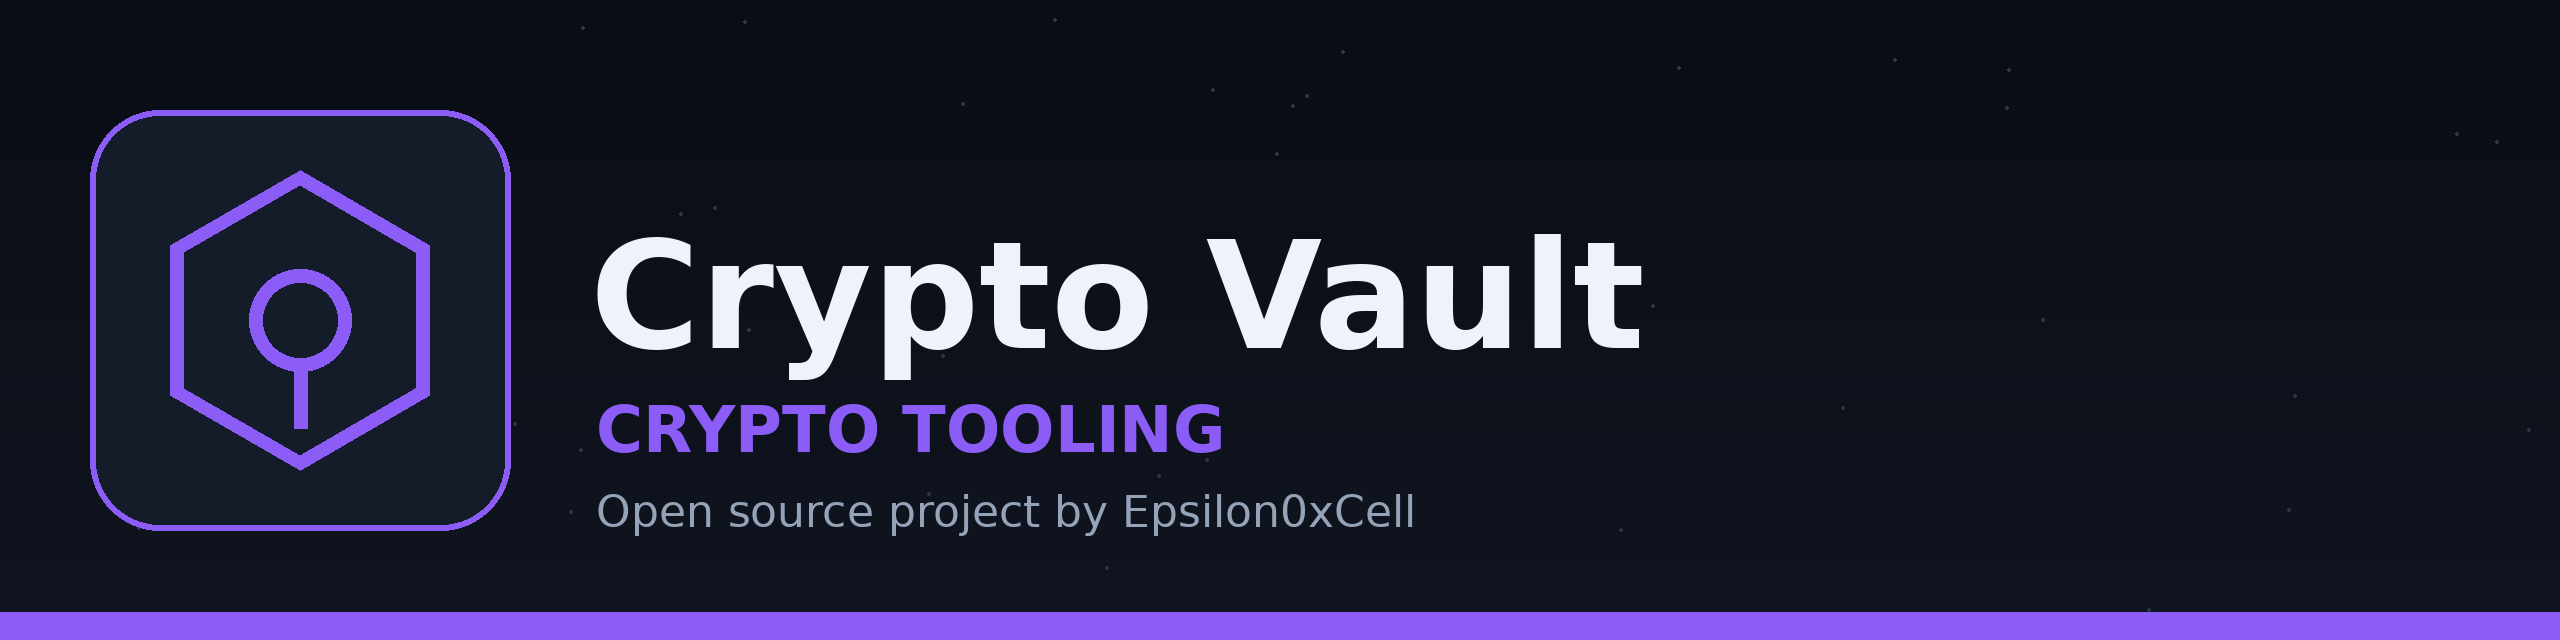
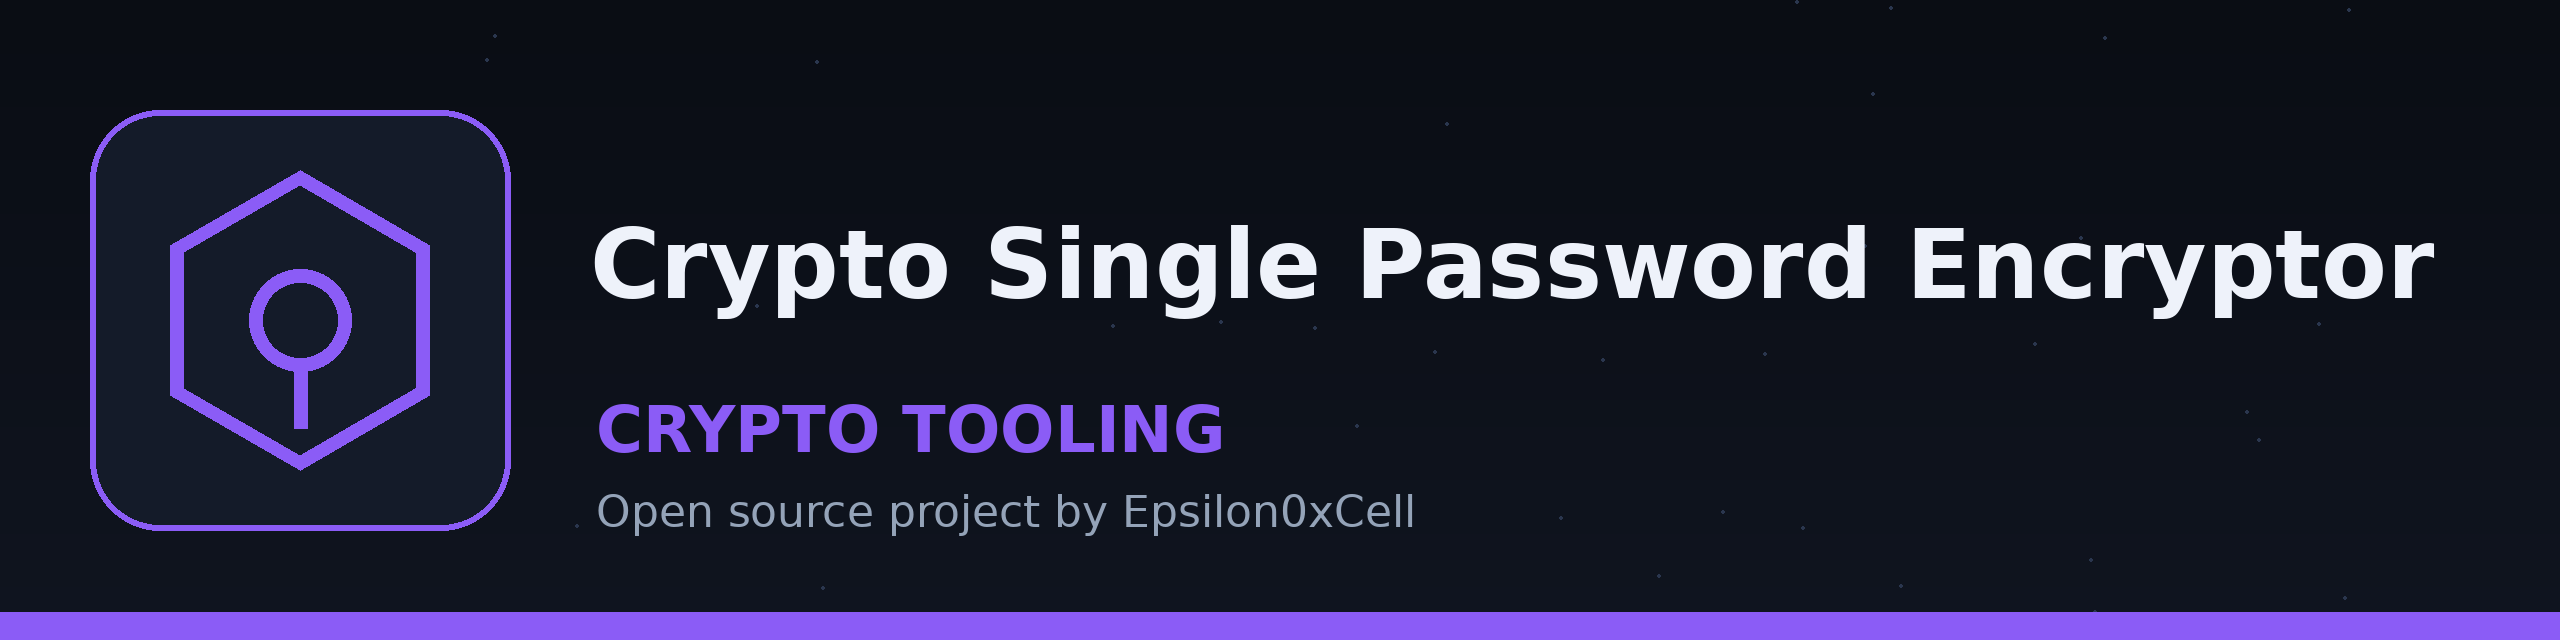
Update branding and README title for rename to crypto-single-password-encryptor

Changed region(s): [[0.2188, 0.3438, 0.9688, 0.5938]]

diff --git a/README.md b/README.md
@@ -1,6 +1,6 @@
 ![Banner](banner.png)
 
-# crypto-vault
+# crypto-single-password-encryptor
 
 A small command line tool that encrypts a single password string and saves the encrypted token to a file, and later decrypts a saved token back to the original password. Encryption uses the Fernet symmetric encryption provided by the Python cryptography library, with a key stored in a local key file.
 
@@ -15,11 +15,11 @@ The other modules it uses (argparse, logging, os, sys) are part of the Python st
 
 ## Installation
 
-1. Clone the repository: `git clone https://github.com/ShadowGuardAI/crypto-vault.git`
-2. Move into the directory: `cd crypto-vault`
+1. Clone the repository: `git clone https://github.com/ShadowGuardAI/crypto-single-password-encryptor.git`
+2. Move into the directory: `cd crypto-single-password-encryptor`
 3. Install the dependency: `pip install -r requirements.txt`
 
-There is no PyPI package and no `crypto-vault` command. The tool is run as `python main.py ...` from the cloned directory.
+There is no PyPI package and no `crypto-single-password-encryptor` command. The tool is run as `python main.py ...` from the cloned directory.
 
 ## How the key works
 
@@ -72,4 +72,4 @@ This prints `Decrypted password: S3cret!Pass`
 
 ## License
 
-crypto-vault is licensed under the GNU General Public License v3.0 (GPL-3.0). See LICENSE.
+crypto-single-password-encryptor is licensed under the GNU General Public License v3.0 (GPL-3.0). See LICENSE.
